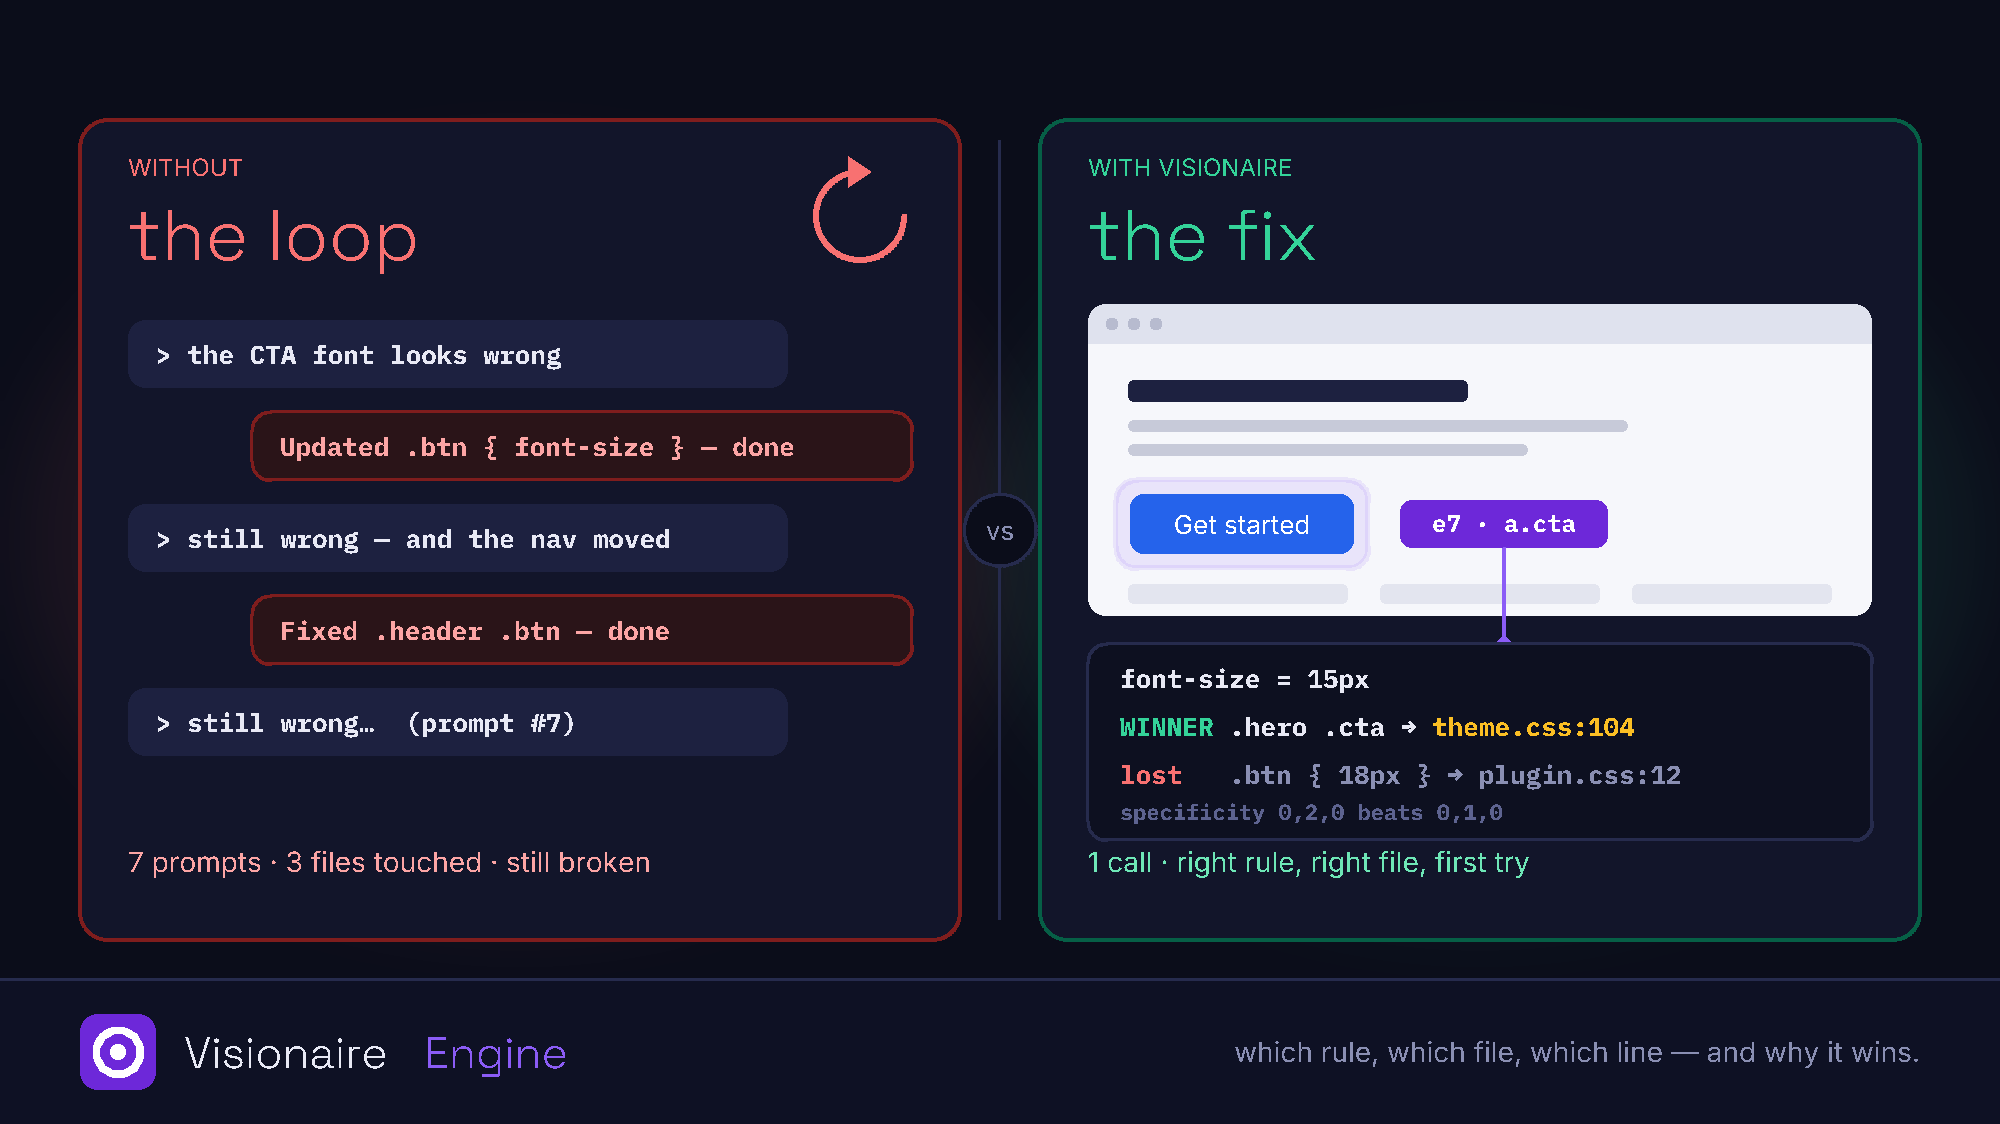
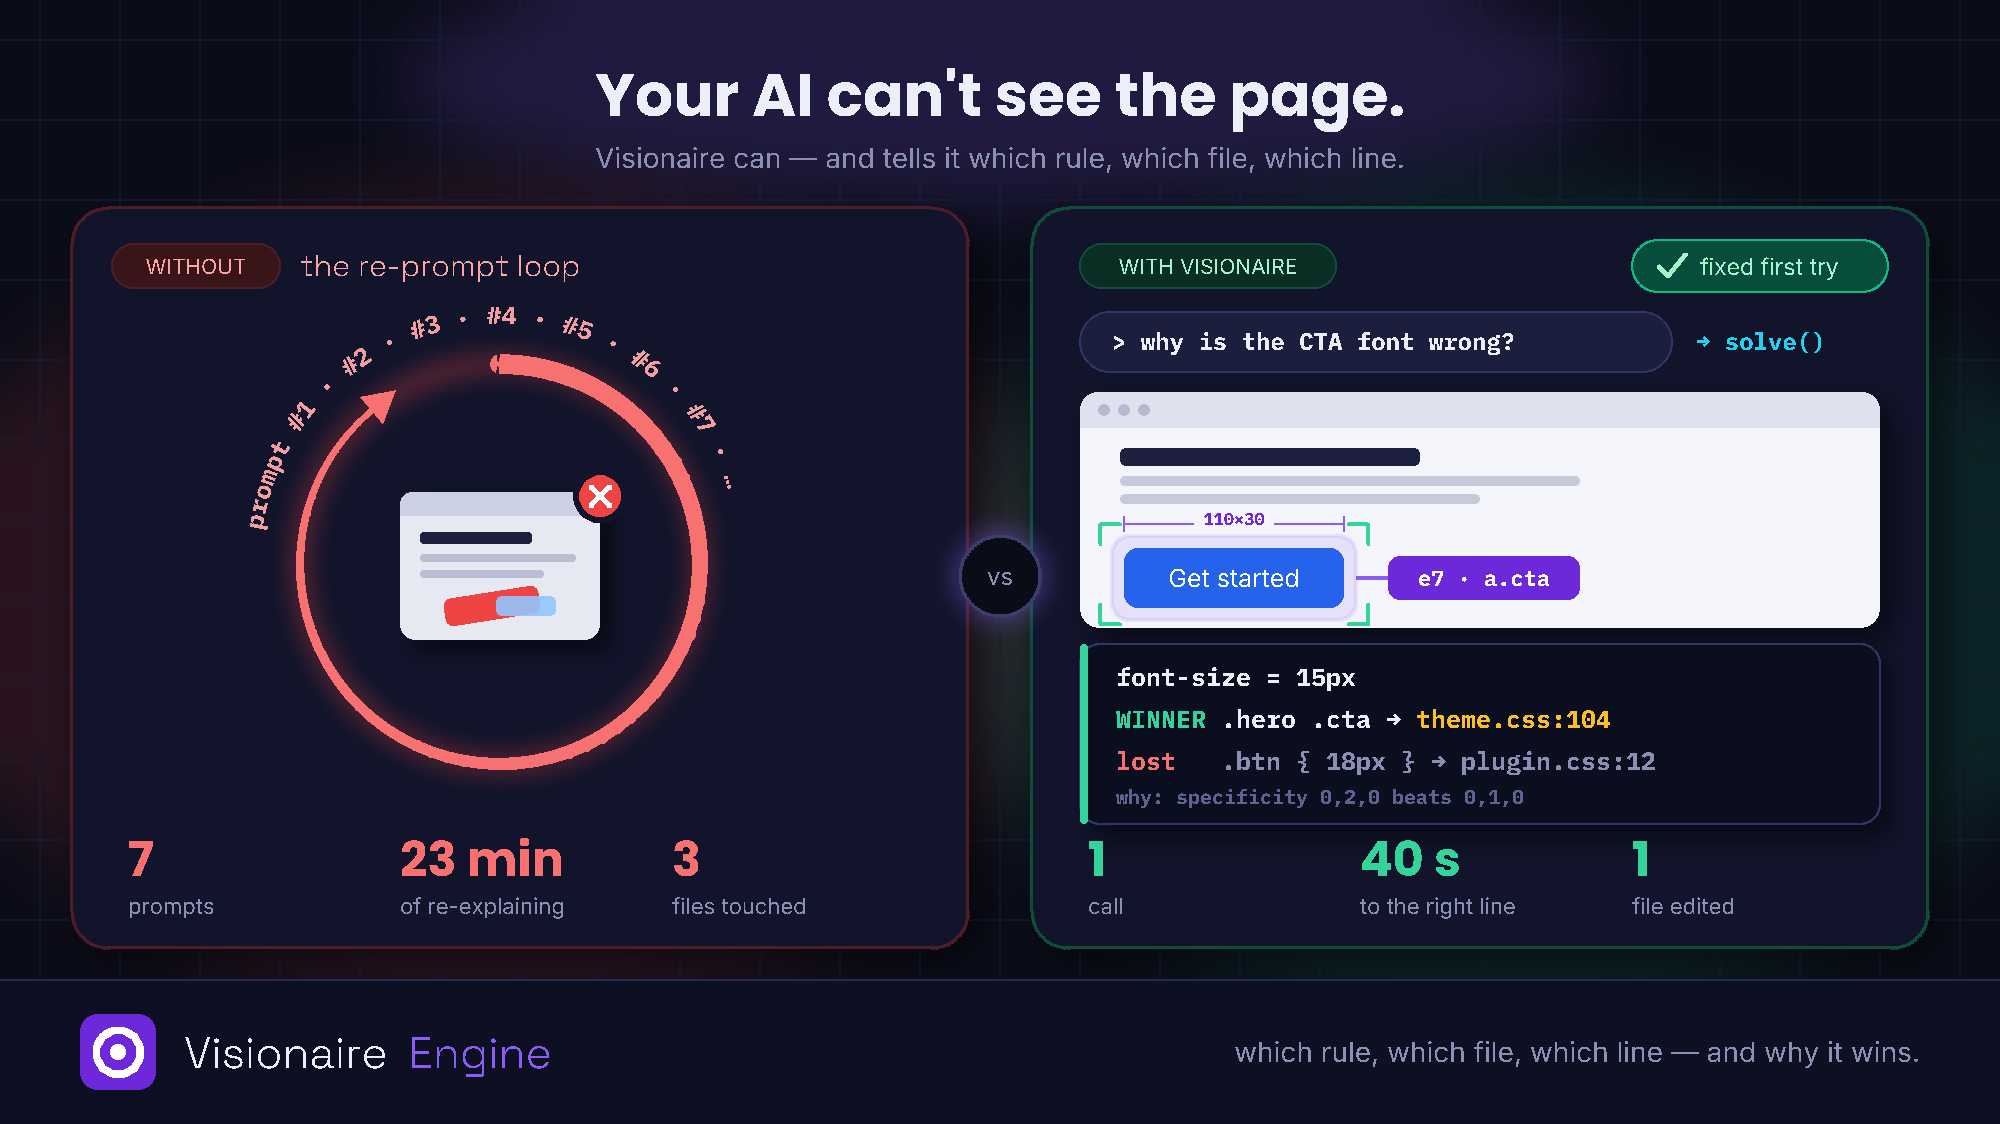
docs: richer loop-vs-fix illustration (Phantom drawing engine)
Headline, a re-prompt ring with prompts around it and a broken page inside,
the pinpointed element with measurement brackets and uid tag, the verdict
card with file:line, and before/after stats.

Changed region(s): [[0.0, 0.0, 0.961, 0.8719], [0.217, 0.9342, 0.279, 0.9653]]

diff --git a/README.md b/README.md
@@ -14,7 +14,7 @@
 
 **The solution:** Visionaire reads the live page and hands the LLM the exact rule, file, and line. Right fix, first try.
 
-![The loop vs the fix: without Visionaire, seven re-prompts and still broken; with it, one call names the winning rule .hero .cta at theme.css:104 and the rule it beat](hero-2.png)
+![Your AI can't see the page: without Visionaire, a loop of seven re-prompts around a broken page; with it, one solve call pinpoints the button and names the winning rule .hero .cta at theme.css:104 and the rule it beat](hero-2.png)
 
 **You shouldn't have to write a paragraph to explain a 2px margin bug — and now you don't.** Less explaining, more fixing: built for developers, vibe coders, and anyone shipping site design changes with an LLM in the loop.
 
